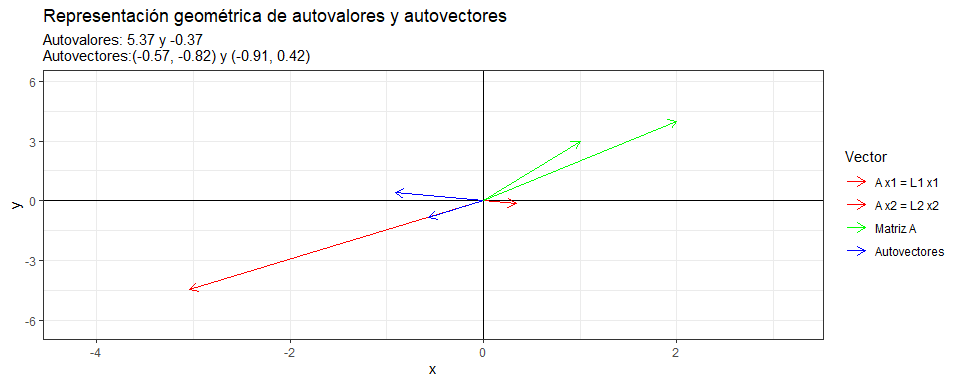
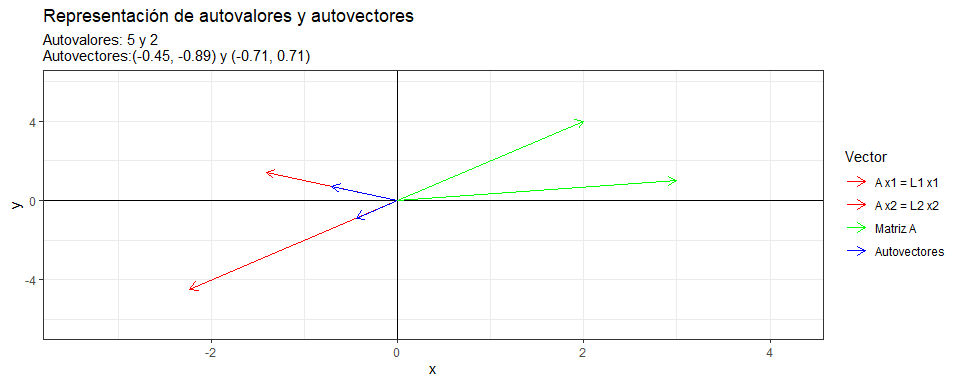
:zap: autovalores y autovectores en ggplot

diff --git a/01_autovalores_autovectores/01_autovalores_autovectores.md b/01_autovalores_autovectores/01_autovalores_autovectores.md
@@ -4,7 +4,7 @@ Karina Bartolomé
 
 # Matrices en R:
 
-Matriz identidad:
+Matriz identidad de 2x2:
 
     ##      [,1] [,2]
     ## [1,]    1    0
@@ -13,20 +13,28 @@ Matriz identidad:
 Se define una matriz A (m x n):
 
 ``` r
-A <- t(matrix(c(0, 1, 
-                1, 0), 
+A <- t(matrix(c(0, 2, 
+                2, 4), 
               nrow = 2, ncol = 2))
 A
 ```
 
     ##      [,1] [,2]
-    ## [1,]    0    1
-    ## [2,]    1    0
+    ## [1,]    0    2
+    ## [2,]    2    4
+
+Gráficamente:
+
+![](01_autovalores_autovectores_files/figure-gfm/unnamed-chunk-4-1.png)<!-- -->
 
 # Autovalores y autovectores
 
-Los autovalores son escalares que al ser multiplicados por un vector no
-negativo se cumple la igualdad:
+Dados
+
+*A* ∈ *𝚁*<sub>*n**x**n*</sub> , *λ* ∈ *𝚁* , *V* ∈ *𝚁*<sub>*n**x*1</sub>
+
+Se dice que **λ** es un **autovalor** de A si y sólo si existe un vector
+**V** (**autovector**) no nulo tal que:
 
 A x = λ x
 
@@ -39,17 +47,24 @@ A x−λ x = 0
 
 ( A − λ I ) x = 0
 
-\| A − λ I \| = 0 –\> **Ecuación característica**
+\| A − λ I \| = 0 –\> **Ecuación característica de la matriz A**
 
-Si λ = 3 =\> A - 3 \* I :
+En donde
+
+p(λ)=\|A–λI\| es un polinomio de grado n dependiente de λ –\>
+**polinomio característico de la matriz** A**A**
+
+------------------------------------------------------------------------
+
+Si λ = 2 =\> A - 2 \* I :
 
     ##      [,1] [,2]
-    ## [1,]   -2    1
-    ## [2,]    1   -2
+    ## [1,]   -2    2
+    ## [2,]    2    2
 
 Calculando el determinante \| A − λ I \|
 
-    ## [1] 3
+    ## [1] -8
 
 No es igual a 0, con lo cual λ = 2 no es un autovalor de la matriz A.
 
@@ -60,7 +75,7 @@ autovalores <- eigen(A)$values
 autovalores
 ```
 
-    ## [1]  1 -1
+    ## [1]  4.8284271 -0.8284271
 
 Notar que si se calcula el determinante \| A − λ I \| para estos
 autovalores da 0:
@@ -69,7 +84,7 @@ autovalores da 0:
 det(A - autovalores[1]*I)
 ```
 
-    ## [1] 0
+    ## [1] -1.608189e-15
 
 ``` r
 det(A - autovalores[2]*I)
@@ -87,13 +102,14 @@ autovectores
 ```
 
     ##           [,1]       [,2]
-    ## [1,] 0.7071068 -0.7071068
-    ## [2,] 0.7071068  0.7071068
+    ## [1,] 0.3826834 -0.9238795
+    ## [2,] 0.9238795  0.3826834
 
 # Volviendo a A x = λ x
 
 ``` r
-A %*% autovectores[,1] == matrix(autovectores[,1] * autovalores[1], nrow=2)
+round(A %*% autovectores[,1],3) == round(matrix(autovectores[,1] * 
+                                            autovalores[1], nrow=2),3)
 ```
 
     ##      [,1]
@@ -118,33 +134,31 @@ X2L2 = autovectores[2,] * autovalores[2]
 print(X1L1)
 ```
 
-    ## [1]  0.7071068 -0.7071068
+    ## [1]  1.847759 -4.460885
 
 ``` r
 print(AX2)
 ```
 
     ##           [,1]
-    ## [1,] 0.7071068
-    ## [2,] 0.7071068
+    ## [1,] 0.7653669
+    ## [2,] 3.3784928
 
 ``` r
 print(X2L2)
 ```
 
-    ## [1] -0.7071068 -0.7071068
+    ## [1] -0.7653669 -0.3170253
 
 ``` r
 print(AX1)
 ```
 
-    ##            [,1]
-    ## [1,] -0.7071068
-    ## [2,]  0.7071068
+    ##           [,1]
+    ## [1,] -1.847759
+    ## [2,] -2.930151
 
 # Gráficamente:
-
-Función para obtener autovalores y autovectores.
 
 Visualizando el ejemplo de la matriz A. Se observa que se cumple la
 igualdad A x = λ x. Además, se ve como AX1 = X1 \* un escalar (lambda 1)
@@ -154,15 +168,15 @@ Además, cuando el autovalor es positivo, el autovector se expande en la
 misma dirección mientras que cuando el autovalor es negativo el
 autovalor se expande en la dirección opuesta.
 
-![](01_autovalores_autovectores_files/figure-gfm/unnamed-chunk-15-1.png)<!-- -->
+![](01_autovalores_autovectores_files/figure-gfm/unnamed-chunk-16-1.png)<!-- -->
 
 Considerando una matriz A distinta:
 
     ##      [,1] [,2]
-    ## [1,]    0    2
+    ## [1,]    3    1
     ## [2,]    2    4
 
-![](01_autovalores_autovectores_files/figure-gfm/unnamed-chunk-16-1.png)<!-- -->
+![](01_autovalores_autovectores_files/figure-gfm/unnamed-chunk-17-1.png)<!-- -->
 
 Otro ejemplo:
 
@@ -170,4 +184,4 @@ Otro ejemplo:
     ## [1,]    1    3
     ## [2,]    2    4
 
-![](01_autovalores_autovectores_files/figure-gfm/unnamed-chunk-17-1.png)<!-- -->
+![](01_autovalores_autovectores_files/figure-gfm/unnamed-chunk-18-1.png)<!-- -->
